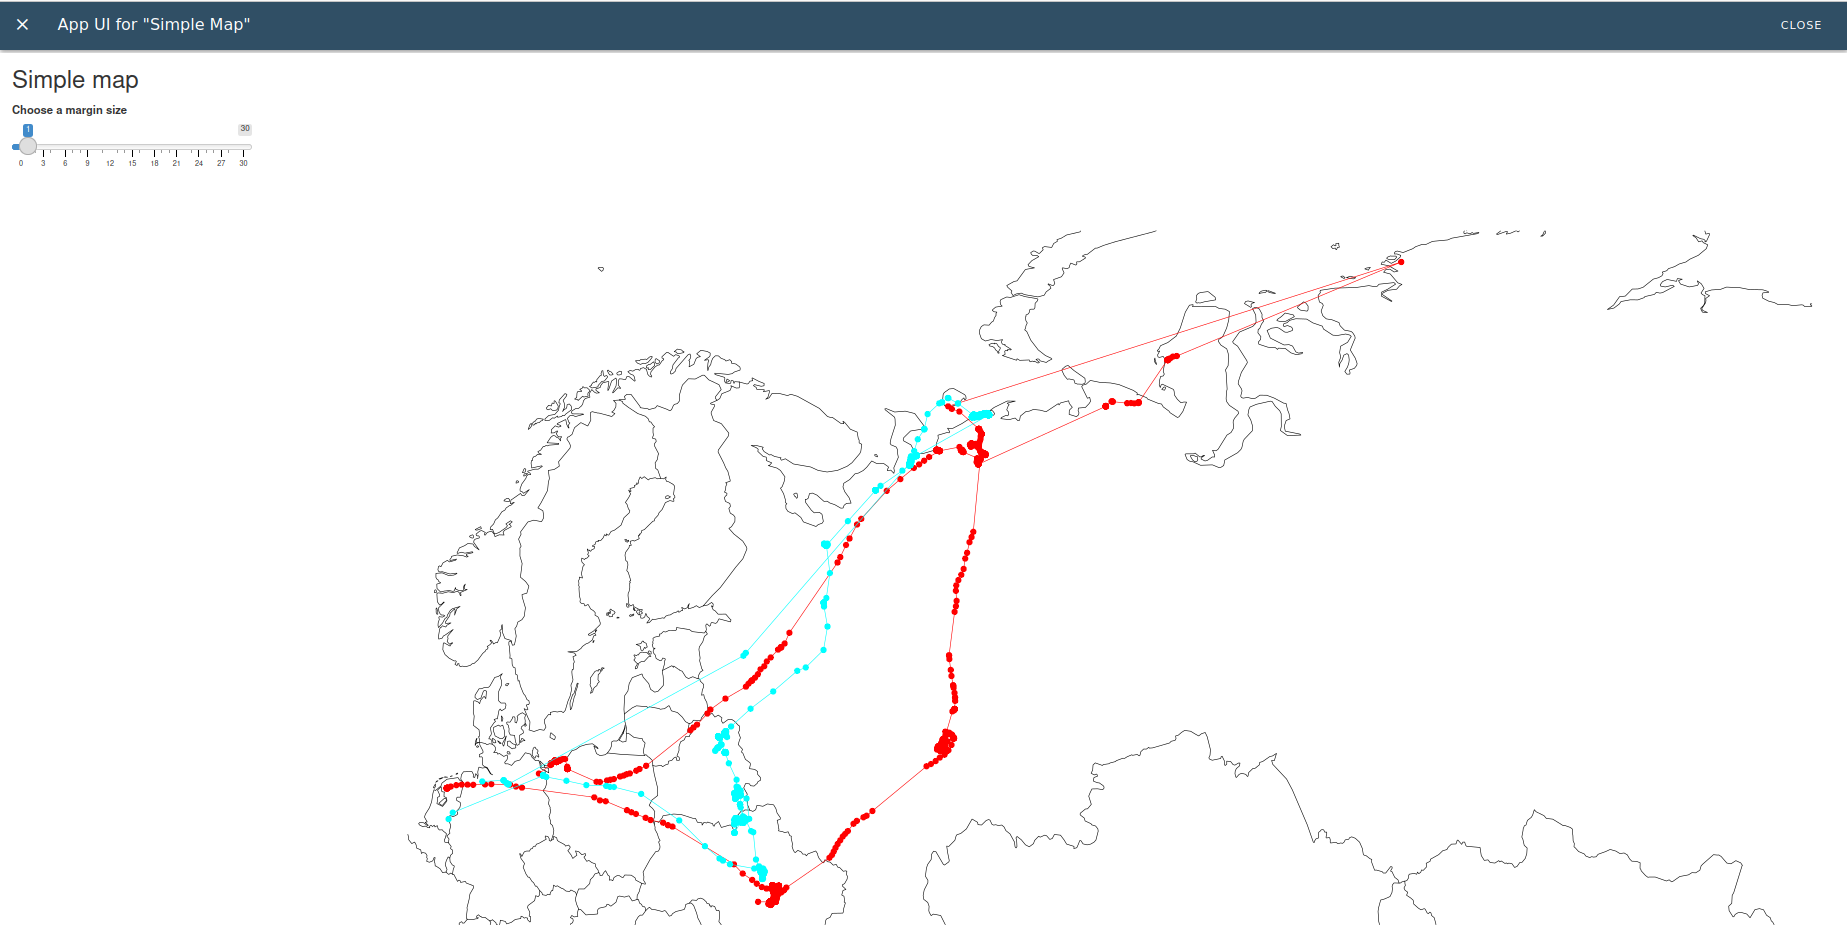
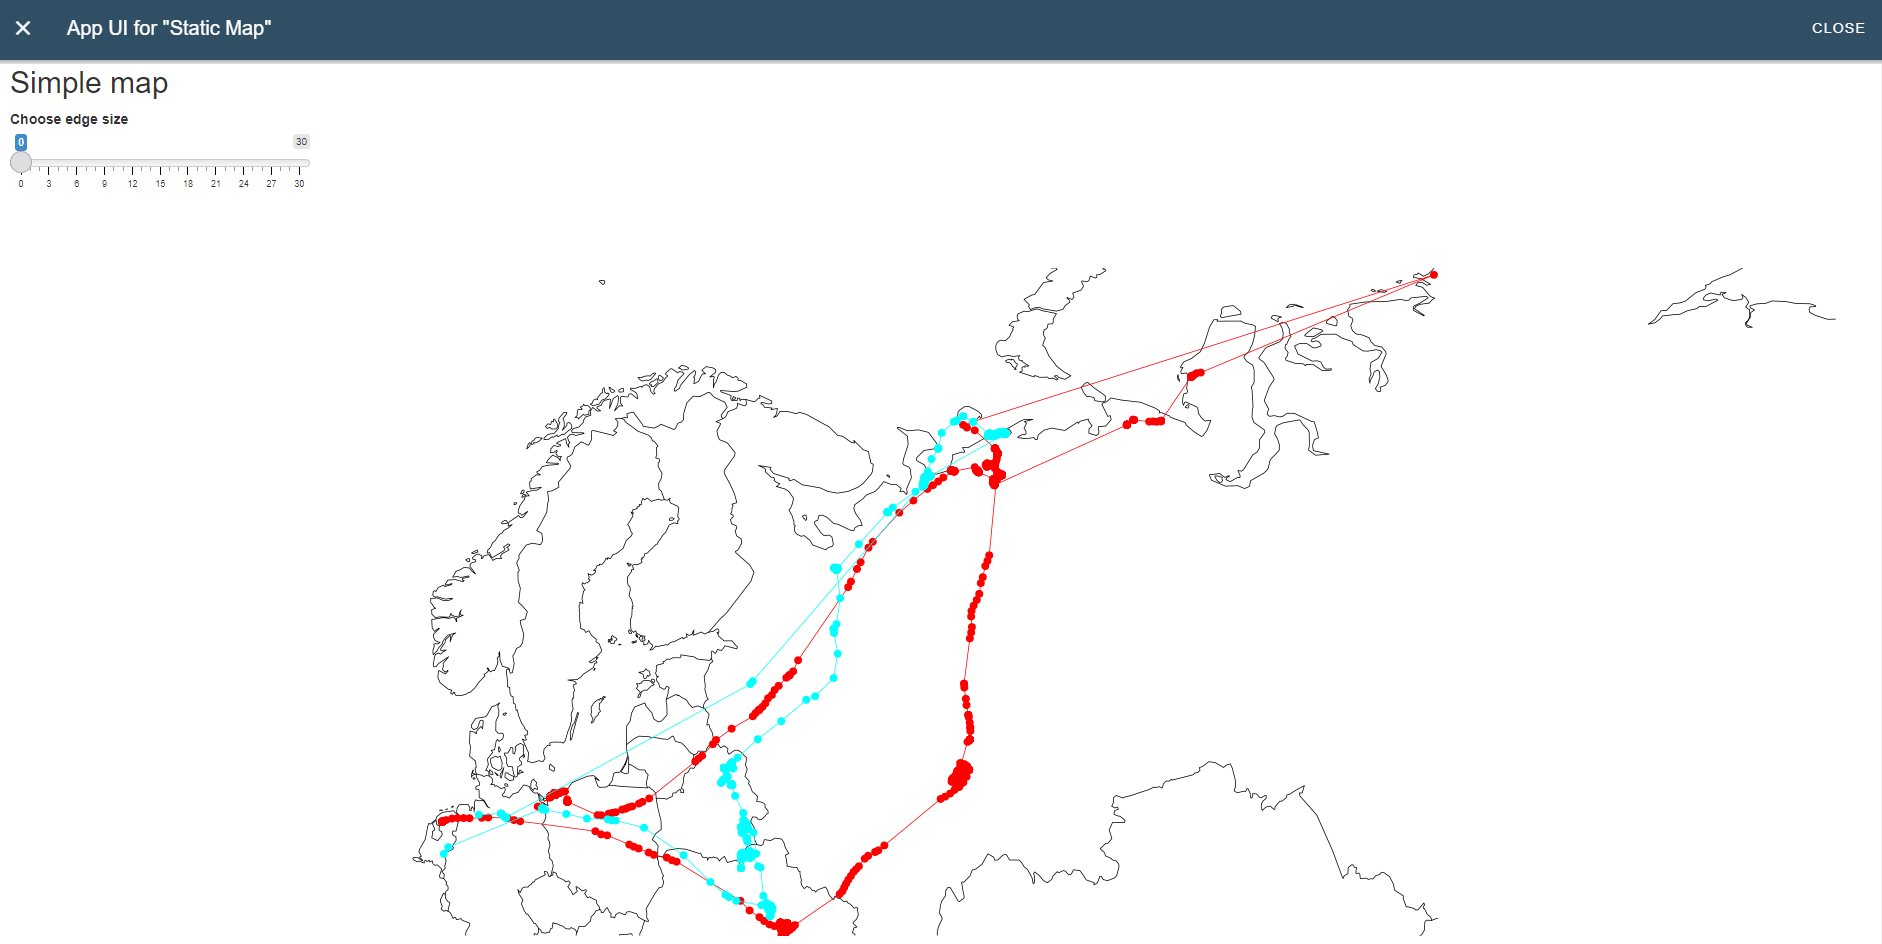
Updated "Plot your positions in a Shiny User Interface" and screenshots in hello_world_workflow.md and added Translator App

diff --git a/hello_world_workflow.md b/hello_world_workflow.md
@@ -17,16 +17,23 @@ For shorter run times in this example let us select data of only two animals, sa
 
 If you like, go ahead and click on `Start Workflow` on the top right and, after the run is finished, explore the downloaded data (Output Details) in the `Cargo Agent`, which can be accessed via the small green circle appearing on the right side of the App Container (red arrow) once the run is finished. Explore the coloured dots (by hovering over them) that indicate the status of each App's performance (blue arrow). On the right side of the Workflow name there is also a action point which will indicate if the workflow instance is "running" or "stopped" (yellow arrow). Note that if the workflow contains a Shiny App its status will always be "running", also after finishing, in order to allow the interaction with the App UI.
 
-![](files/HelloWorld_MoveApps_CargoAgent.png)
+![](files/HelloWorld_MoveApps_CargoAgent.png ':size=80%')
 
 ## Plot your positions in a Shiny User Interface
-Now click on the `+` next to the first App Container to select an App that would analyse or visualise the downloaded data. Let us stay simple and select the visualisation App `Static Map` (formerly Simple Map). There is a single variable that has to be configured, namely the edge size of area surrounding the locations on the map. Select `1` for now, this parameter can also be adapted in the UI directly. Now you can `Start Workflow` and `Open App UI` once everything has finished. To reduce run time you can use `Pin to this App` in the Movebank App, which will block it from running again, in case you have let it run before.
+Now you add an app to visualise the downloaded data. Let us stay simple and use the visualisation App `Static Map`. From the main menu in your `Dashboard`, select `App Browser` and search for the App. This App requires the input data type `moveStack`. 
 
-![](../files/HelloWorld_addMap.png)
-![](../files/HelloWorld_OpenAppUI.png)
+![](files/HelloWorld_AppBrowser.png ':size=80%')
 
-`Open App UI` opens a Shiny User Interface that provides you with a visualisation of the downloaded locations, different colours per ID and coastlines around for orientation. This is a very simple, but quick way if having a look at your data. Congratulations, this is your first Workflow. Hello World!
+Now go back to the Workflow and click on the `+` next to the first App Container to select an App that would analyse or visualise the downloaded data. The `Movebank Location` App (our first App) has the output data type `move2_loc`, meaning that a `Translator` App is required. `Install` the App move2_loc to moveStack.
 
-![](../files/HelloWorld_SimpleMap.png)
+![](files/HelloWorld_TranslatorApp.png ':size=80%')
 
-Go ahead and also explore what you can download and access from the App Container Menu or the Workflow Menu (just next to the `Output` button). See the [How to create a Workflow](create_workflow.md) for more details.
+Now click on the + next to the Translator App Container and `Install` the App Static Map. Now you can `Start Workflow` and `Open App UI` once everything has finished. To reduce run time you can use `Pin to this App` in the Movebank Location App or in the Translator App, which will block it from running again, in case you have let it run before.
+
+![](files/HelloWorld_OpenAppUI.png ':size=60%')
+
+`Open App UI` opens a Shiny User Interface that provides you with a visualisation of the downloaded locations, different colours per ID and coastlines around for orientation. This is a very simple, but quick way of having a look at your data.
+
+![](files/HelloWorld_SimpleMap.png ':size=80%')
+
+Congratulations, this is your first Workflow. Hello World! Go ahead and also explore what you can download and access from the App Container Menu or the Workflow Menu (just next to the `Output` button). See the [How to create a Workflow](create_workflow.md) for more details.
